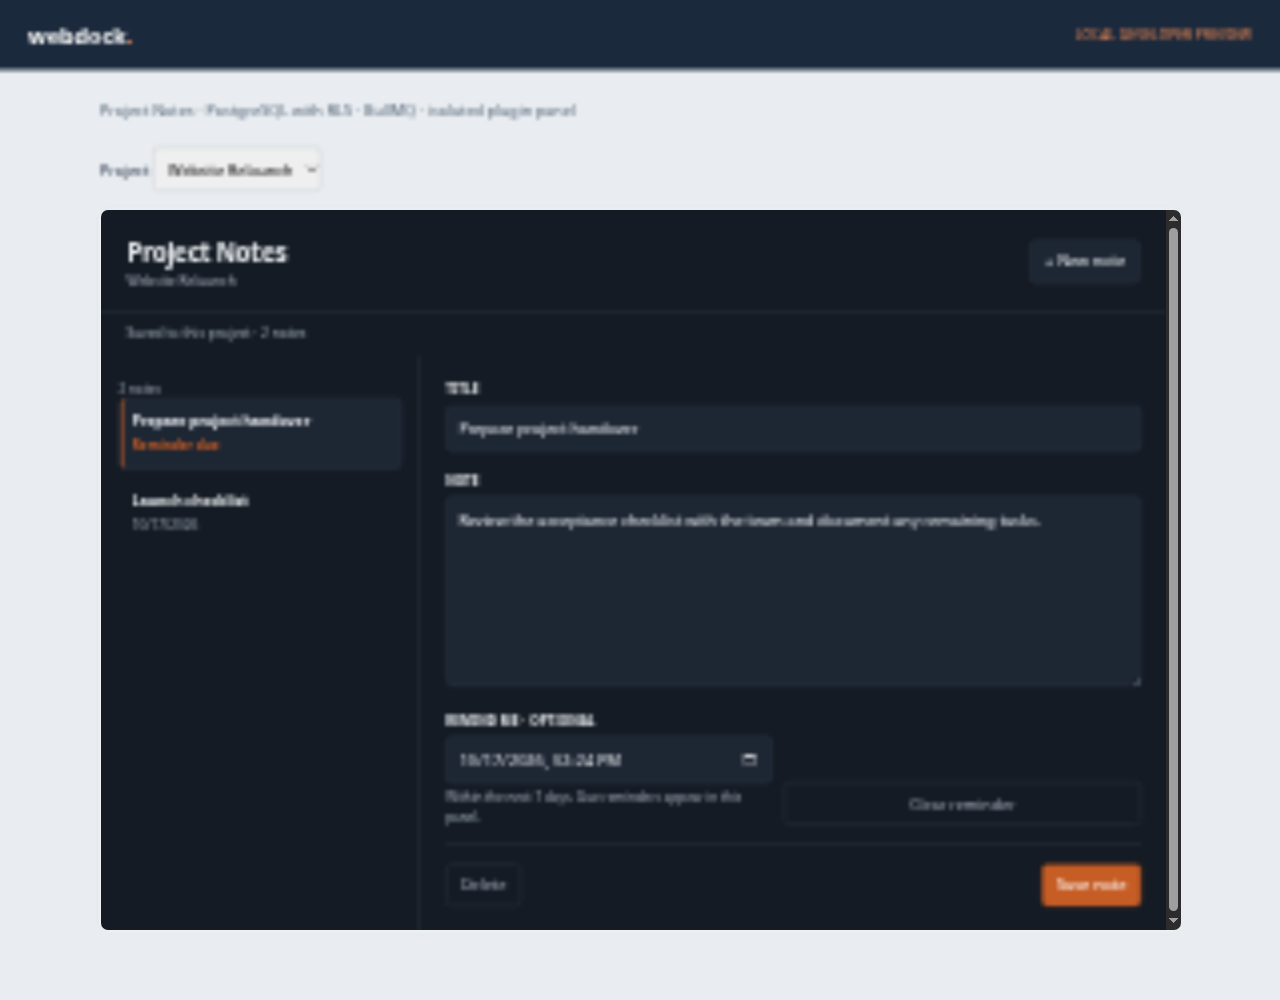
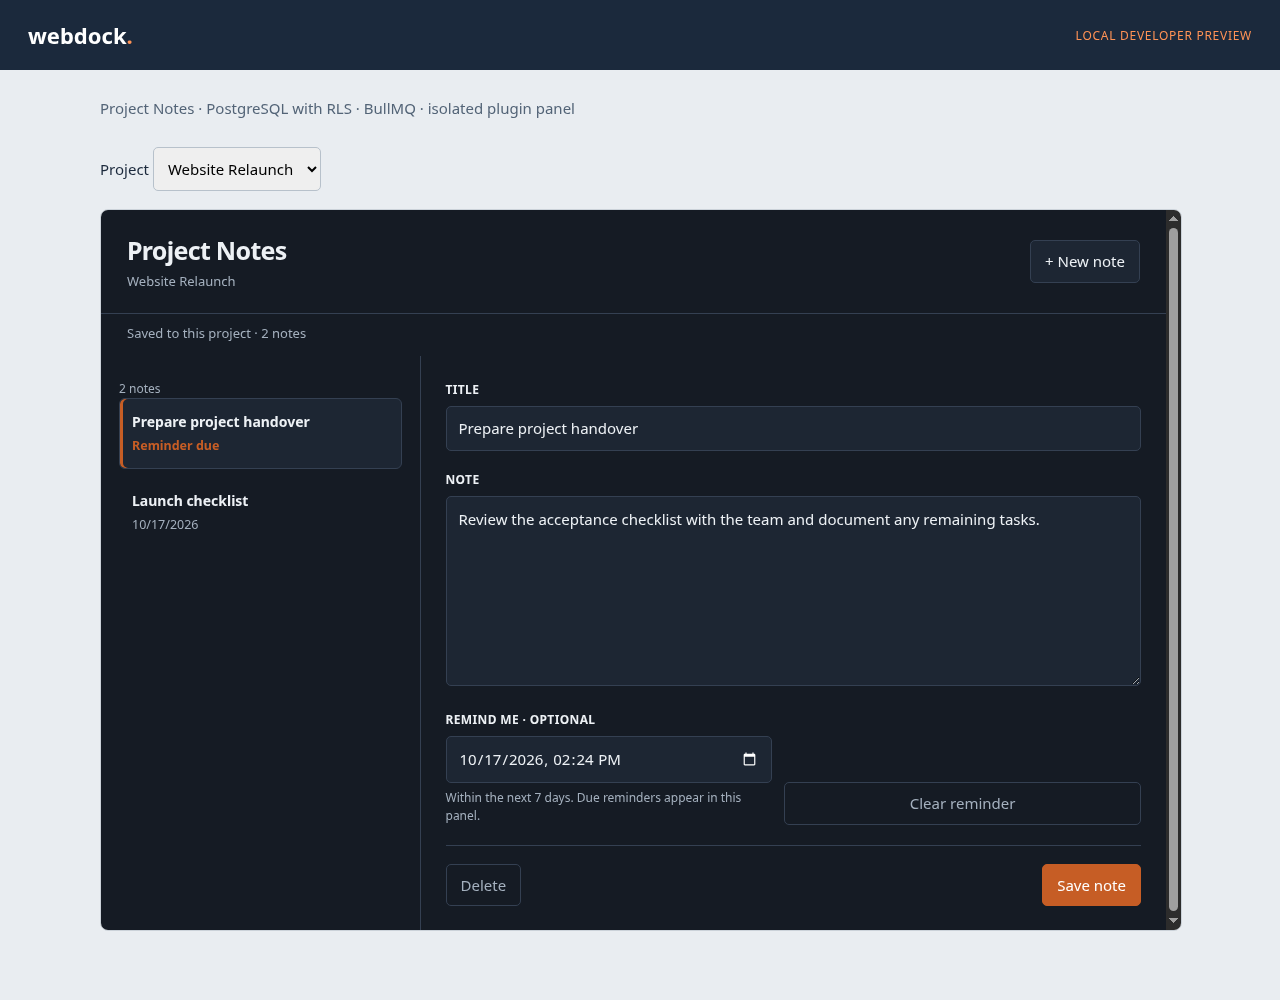
Prepare alpha 2 with sharp English release screenshots

diff --git a/README.md b/README.md
@@ -8,7 +8,7 @@ Project-scoped notes and reminders for Webdock. Kind: `extension`.
 - Core PostgreSQL storage, RLS and BullMQ; no database or Redis credentials in the plugin.
 - Pending reminders are retained in the note document. A declared 60-second reconciliation job repairs missed delivery, including exhausted retries.
 
-## 0.1.0-alpha.1
+## 0.1.0-alpha.2
 
 Public developer preview. Notes, project isolation, optimistic editing, reminders and restart retention have been tested locally with actual PostgreSQL RLS, Core APIs and BullMQ.
 
@@ -18,9 +18,9 @@ Public developer preview. Notes, project isolation, optimistic editing, reminder
 
 Real screenshots from the local authoring host:
 
-![Project-scoped note editor](https://raw.githubusercontent.com/spitzli/webdock-extension-project-notes/v0.1.0-alpha.1/screenshots/project-notes-editor.png)
+![Project-scoped note editor](https://raw.githubusercontent.com/spitzli/webdock-extension-project-notes/v0.1.0-alpha.2/screenshots/project-notes-editor.png)
 
-![A due reminder processed by BullMQ](https://raw.githubusercontent.com/spitzli/webdock-extension-project-notes/v0.1.0-alpha.1/screenshots/project-notes-reminder.png)
+![A due reminder processed by BullMQ](https://raw.githubusercontent.com/spitzli/webdock-extension-project-notes/v0.1.0-alpha.2/screenshots/project-notes-reminder.png)
 
 ## Build and test
 
